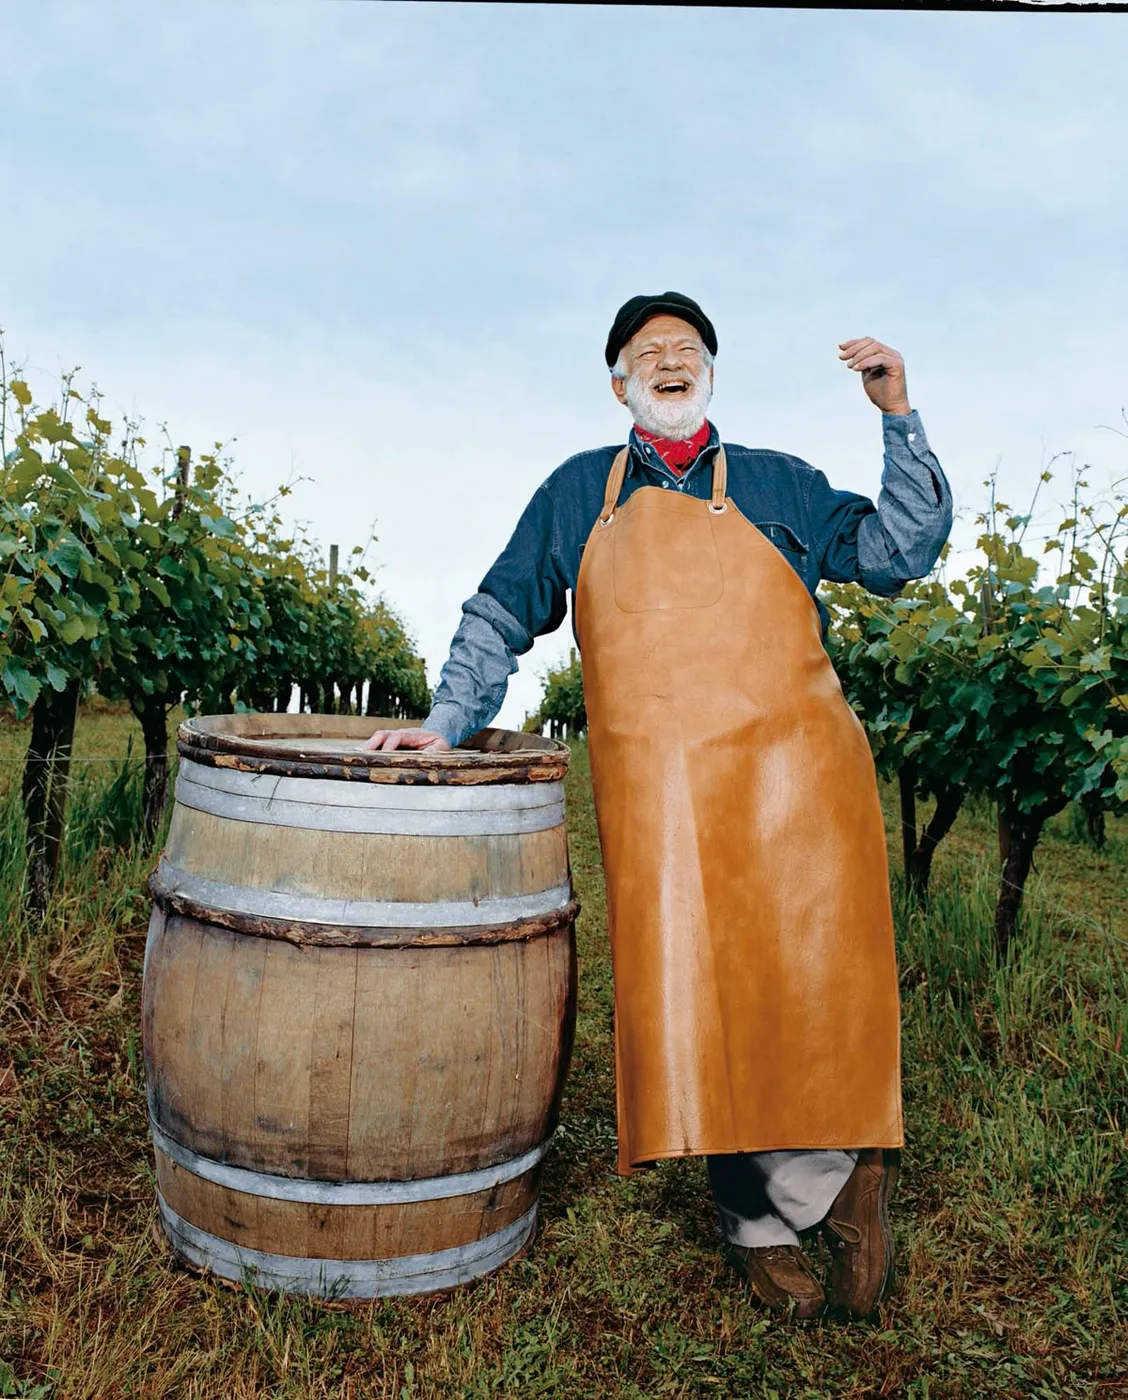
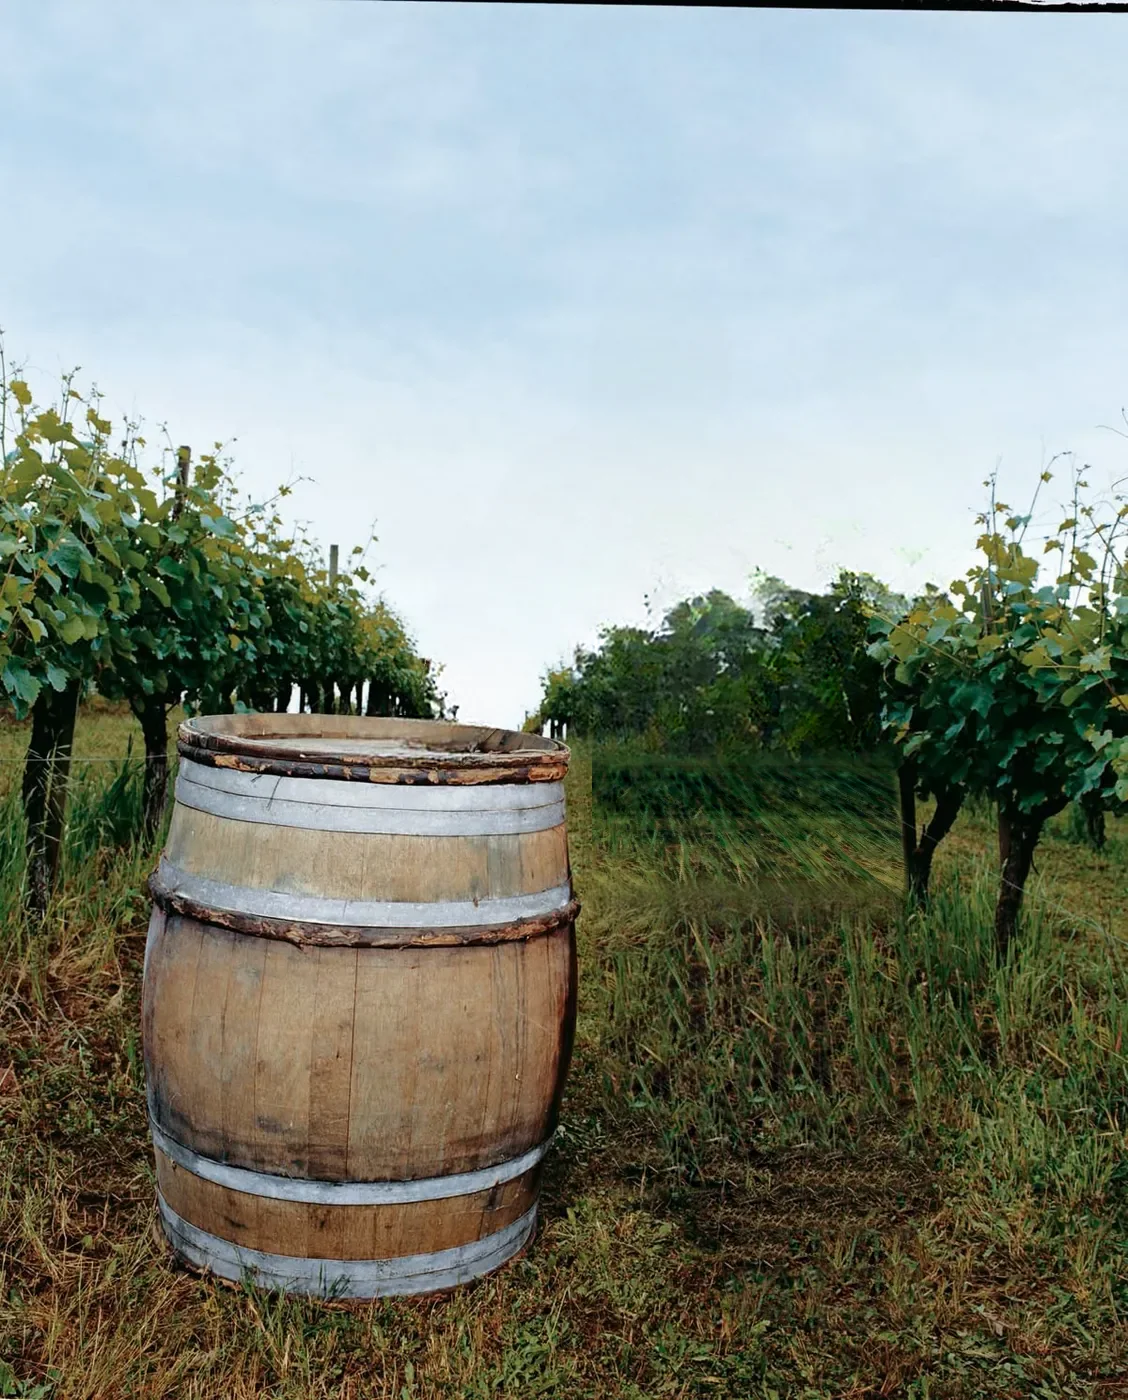
Thème : photo d'accueil sans vigneron, stickers année ou « VOL. x % », âge redemandé à chaque visite
- Photo d'accueil (bp-photo-vigneron.webp) : le vigneron est effacé ; restent le
  tonneau, les rangs de vigne et le ciel. Texte alternatif mis à jour.
- Sticker de la fiche vin : l'année (étiquette « millesime:… », que « Modifier la
  fiche » de la page Stock écrit) ; sinon le degré précédé de « Vol. » pour ne pas
  le confondre avec une réduction ; sans année ni degré, pas de sticker. Plus de
  « bio » ni de « good taste ».
- Vérification d'âge : la confirmation vaut pour la visite (cookie de session)
  au lieu de 30 jours ; la fenêtre revient à chaque nouvelle visite.

Claude-Session: https://claude.ai/code/session_01YaESpkwZgywgrfNBUn5k4R

Changed region(s): [[0.3103, 0.1843, 0.8688, 0.9521]]

diff --git a/theme/assets/bp-chrome.js b/theme/assets/bp-chrome.js
@@ -41,11 +41,14 @@
 
   /* ---------- Vérification d’âge ---------- */
 
+  // L’âge confirmé vaut pour la visite (cookie de session, effacé à la fermeture du navigateur) :
+  // la question revient à chaque nouvelle visite. L’ancien souvenir de 30 jours est effacé.
   function rememberAge() {
     try {
-      window.localStorage.setItem(AGE_STORAGE_KEY, String(Date.now()));
+      document.cookie = AGE_STORAGE_KEY + "=1; path=/; SameSite=Lax" + (window.location.protocol === "https:" ? "; Secure" : "");
+      window.localStorage.removeItem(AGE_STORAGE_KEY);
     } catch (error) {
-      // Stockage indisponible : la confirmation vaut pour la page en cours uniquement.
+      // Cookies indisponibles : la confirmation vaut pour la page en cours uniquement.
     }
     document.documentElement.setAttribute(AGE_ATTRIBUTE, "");
   }
